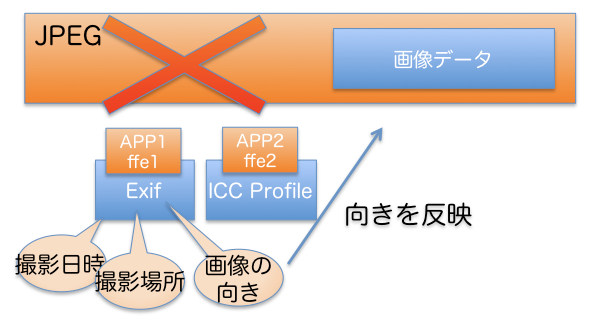
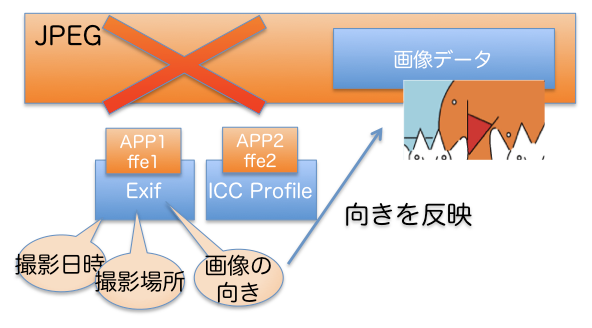
update image

Changed region(s): [[0.6689, 0.2439, 0.9426, 0.4878]]

diff --git a/content/2017/06/11/imicc.md b/content/2017/06/11/imicc.md
@@ -69,7 +69,7 @@ $ convert in.jpg -strip out.jpg
 
 撮影した時の向きを Exif の Orientation タグに記録して、表示の時に回転させる方式です。画像のメタデータを単純に削除すると、今までと画像の表示する向きが変わってしまう事があります。
 
-<img src="../../../../2016/01/07/digicame.png">
+<img src="../digicame2.png">
 
 ImageMagick には Orientationタグに応じて画像を回転させて、このタグを削除するオプションがあります。
 
